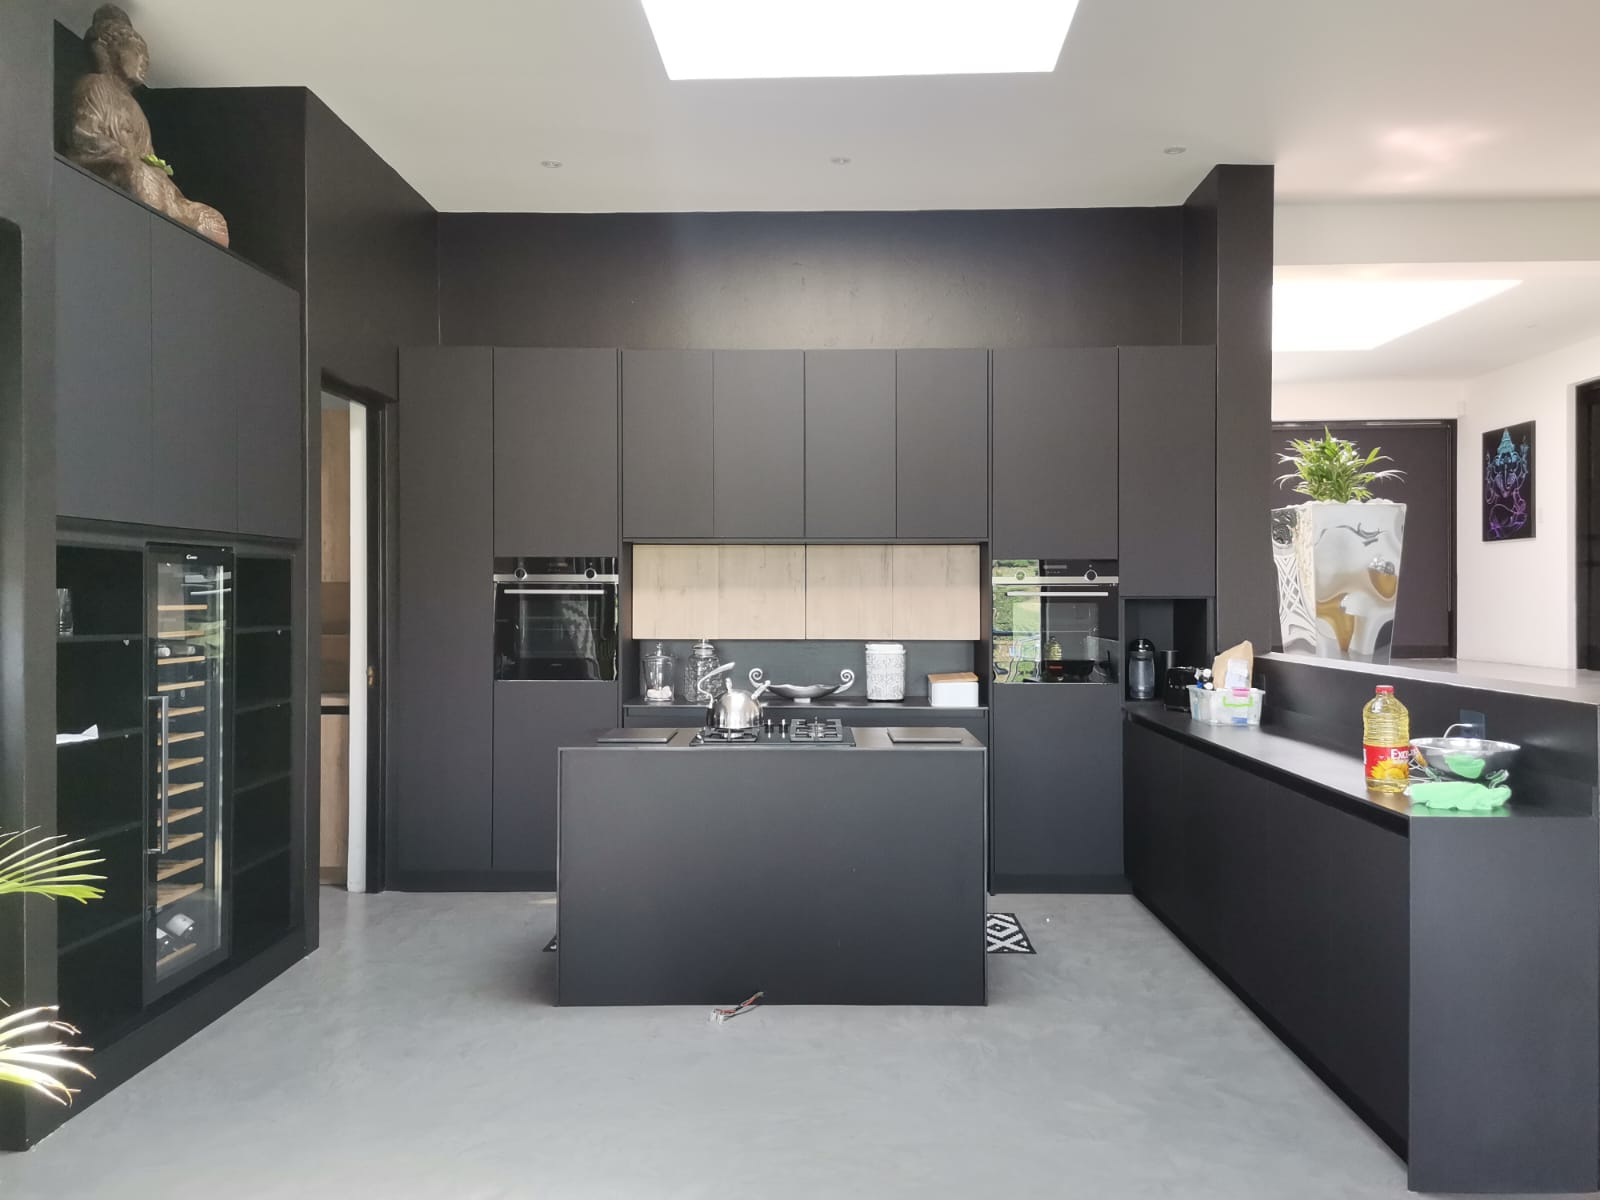
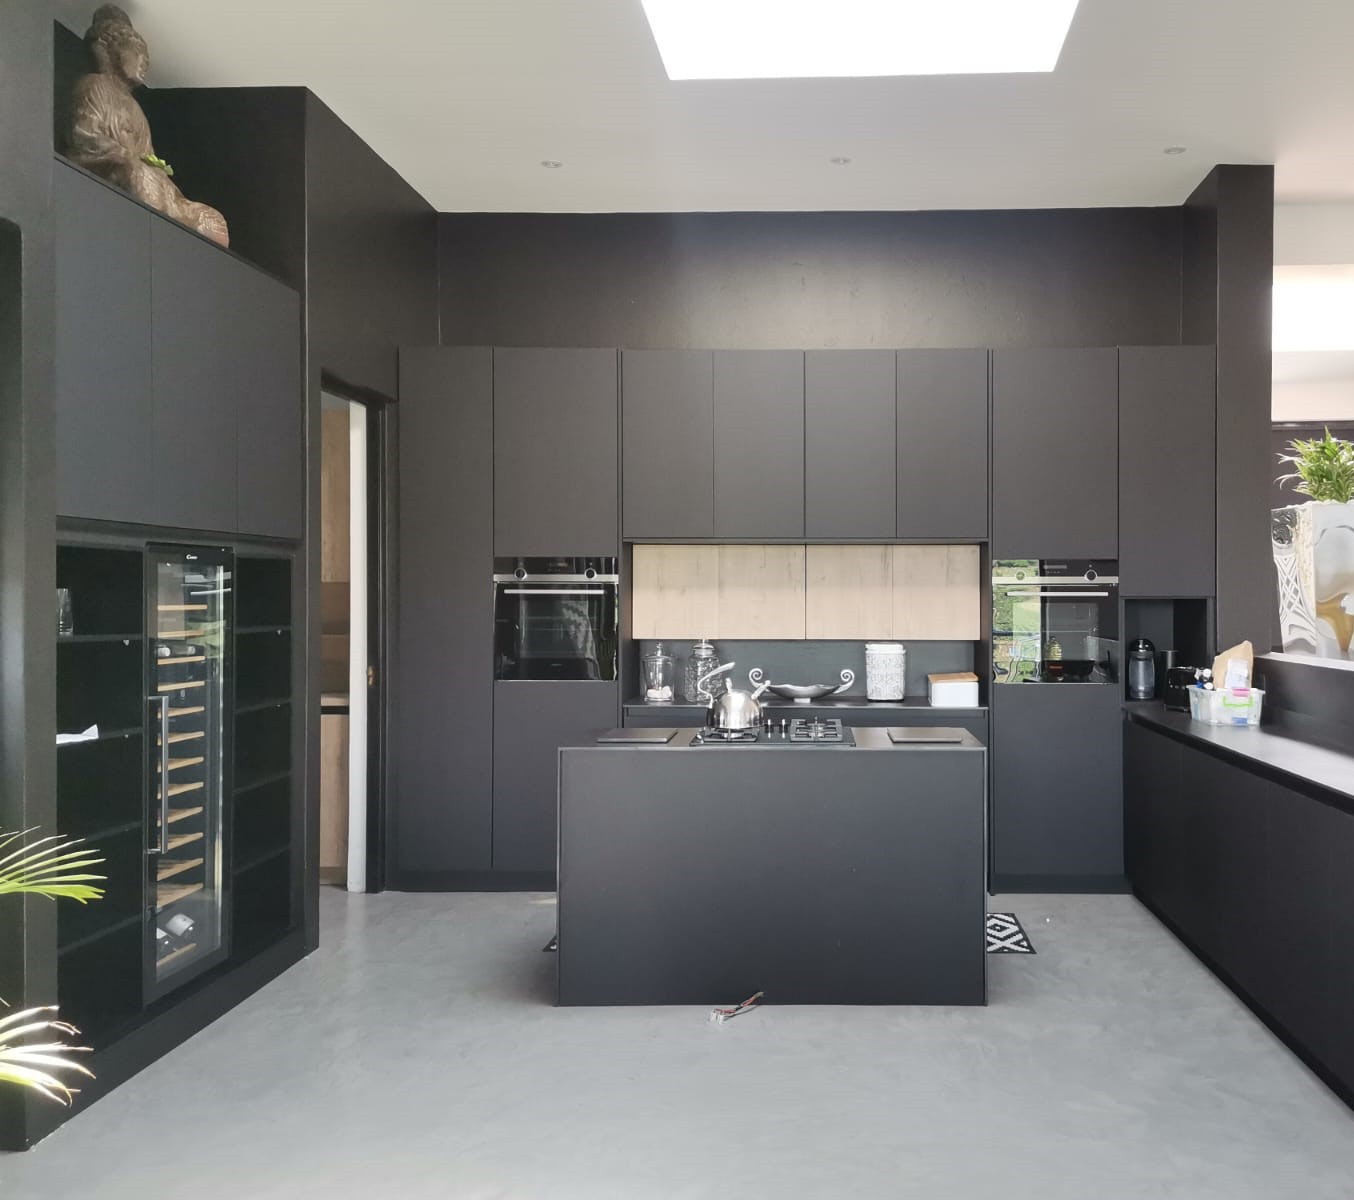
image changes on homa and service

diff --git a/src/routes/index.tsx b/src/routes/index.tsx
@@ -5,8 +5,9 @@ import kitchen1 from "@/assets/kitchen-1.jpeg";
 import kitchen2 from "@/assets/kitchen-2.jpeg";
 import kitchen3 from "@/assets/kitchen-3.jpeg";
 import kitchen4 from "@/assets/kitchen-4.jpeg";
-import kitchen6 from "@/assets/kitchen-6.jpeg";
+import kitchen5 from "@/assets/kitchen-5.jpeg";
 import hardware1 from "@/assets/hardware-1.jpeg";
+import study2 from "@/assets/study-2.jpeg";
 import custom3 from "@/assets/custom-3.jpeg";
 import wardrobe1 from "@/assets/wardrobe-1.jpeg";
 
@@ -152,10 +153,10 @@ function HomePage() {
 
           <div className="grid md:grid-cols-12 gap-5 md:gap-6">
             <figure className="md:col-span-8 aspect-[16/10] rounded-lg overflow-hidden ring-1 ring-ink/5 bg-stone">
-              <img src={kitchen6} alt="" loading="lazy" width={1280} height={800} className="w-full h-full object-cover" />
+              <img src={kitchen5} alt="" loading="lazy" width={1280} height={800} className="w-full h-full object-cover" />
             </figure>
             <figure className="md:col-span-4 aspect-square rounded-lg overflow-hidden ring-1 ring-ink/5 bg-stone">
-              <img src={hardware1} alt="" loading="lazy" width={800} height={800} className="w-full h-full object-cover" />
+              <img src={study2} alt="" loading="lazy" width={800} height={800} className="w-full h-full object-cover" />
             </figure>
             <figure className="md:col-span-5 aspect-[4/5] rounded-lg overflow-hidden ring-1 ring-ink/5 bg-stone">
               <img src={kitchen3} alt="" loading="lazy" width={800} height={1200} className="w-full h-full object-cover" />

diff --git a/src/routes/services.tsx b/src/routes/services.tsx
@@ -1,10 +1,8 @@
 import { createFileRoute, Link } from "@tanstack/react-router";
-import kitchen1 from "@/assets/kitchen-1.jpeg";
-import kitchen3 from "@/assets/kitchen-3.jpeg";
+import kitchen6 from "@/assets/kitchen-6.jpeg";
 import study2 from "@/assets/study-2.jpeg";
 import custom3 from "@/assets/custom-3.jpeg";
 import wardrobe1 from "@/assets/wardrobe-1.jpeg";
-import joinery1 from "@/assets/joinery-1.jpeg";
 
 export const Route = createFileRoute("/services")({
   head: () => ({
@@ -28,7 +26,7 @@ export const Route = createFileRoute("/services")({
 
 const services = [
   {
-    img: kitchen1,
+    img: kitchen6,
     title: "Bespoke Kitchens",
     copy: "Full-scale kitchen design from concept through installation. Built for integrated appliances, and finishes hand-selected for your palette.",
     details: ["Kitchen islands & butlers pantries", "Integrated appliance housing", "Floor-to-ceiling cabinetry"],
